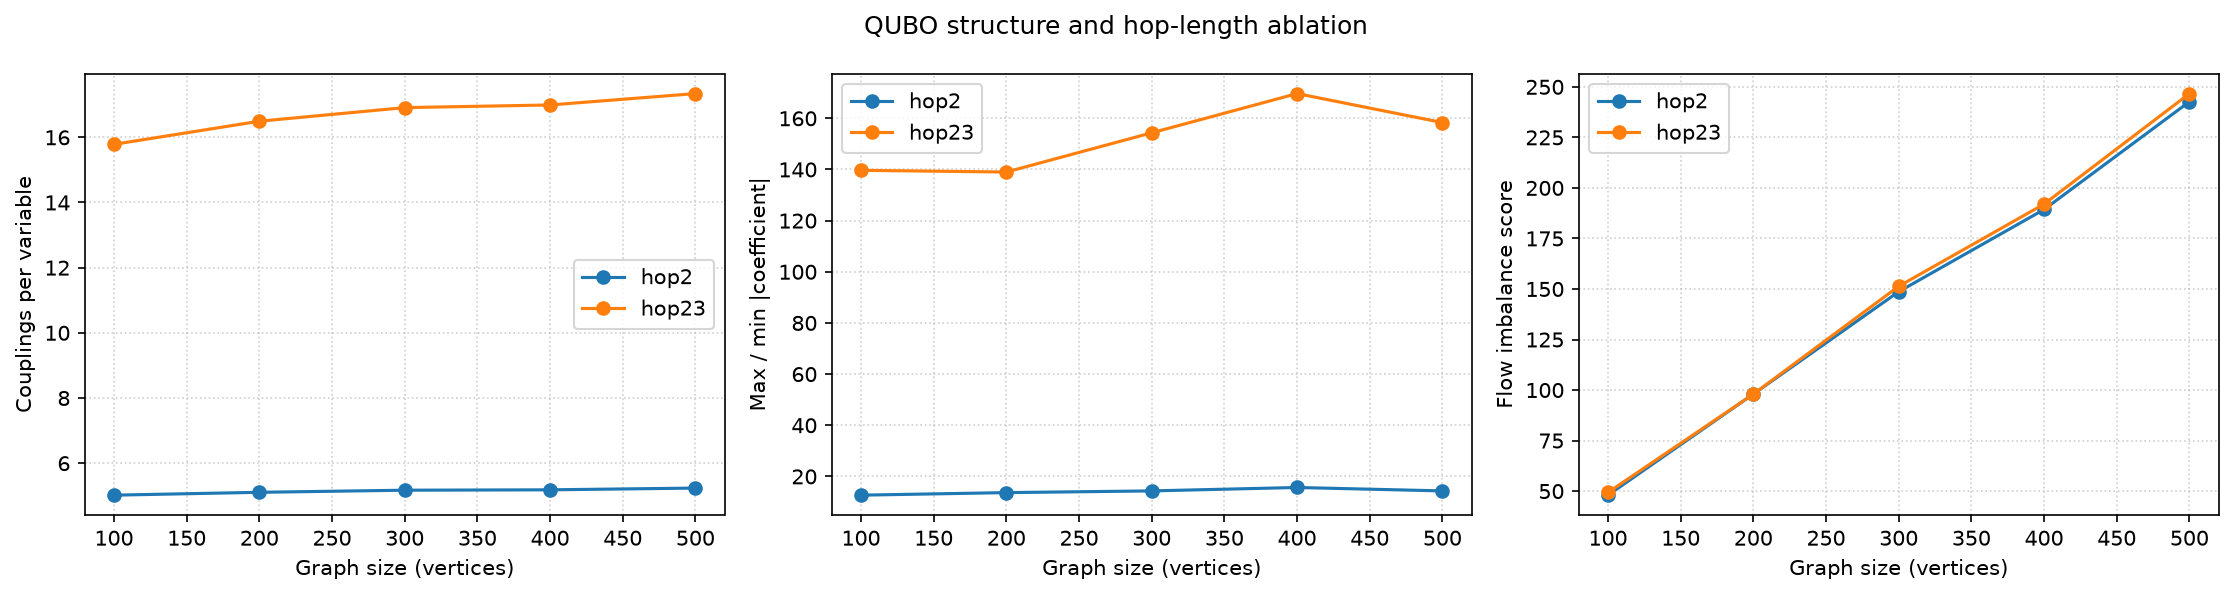
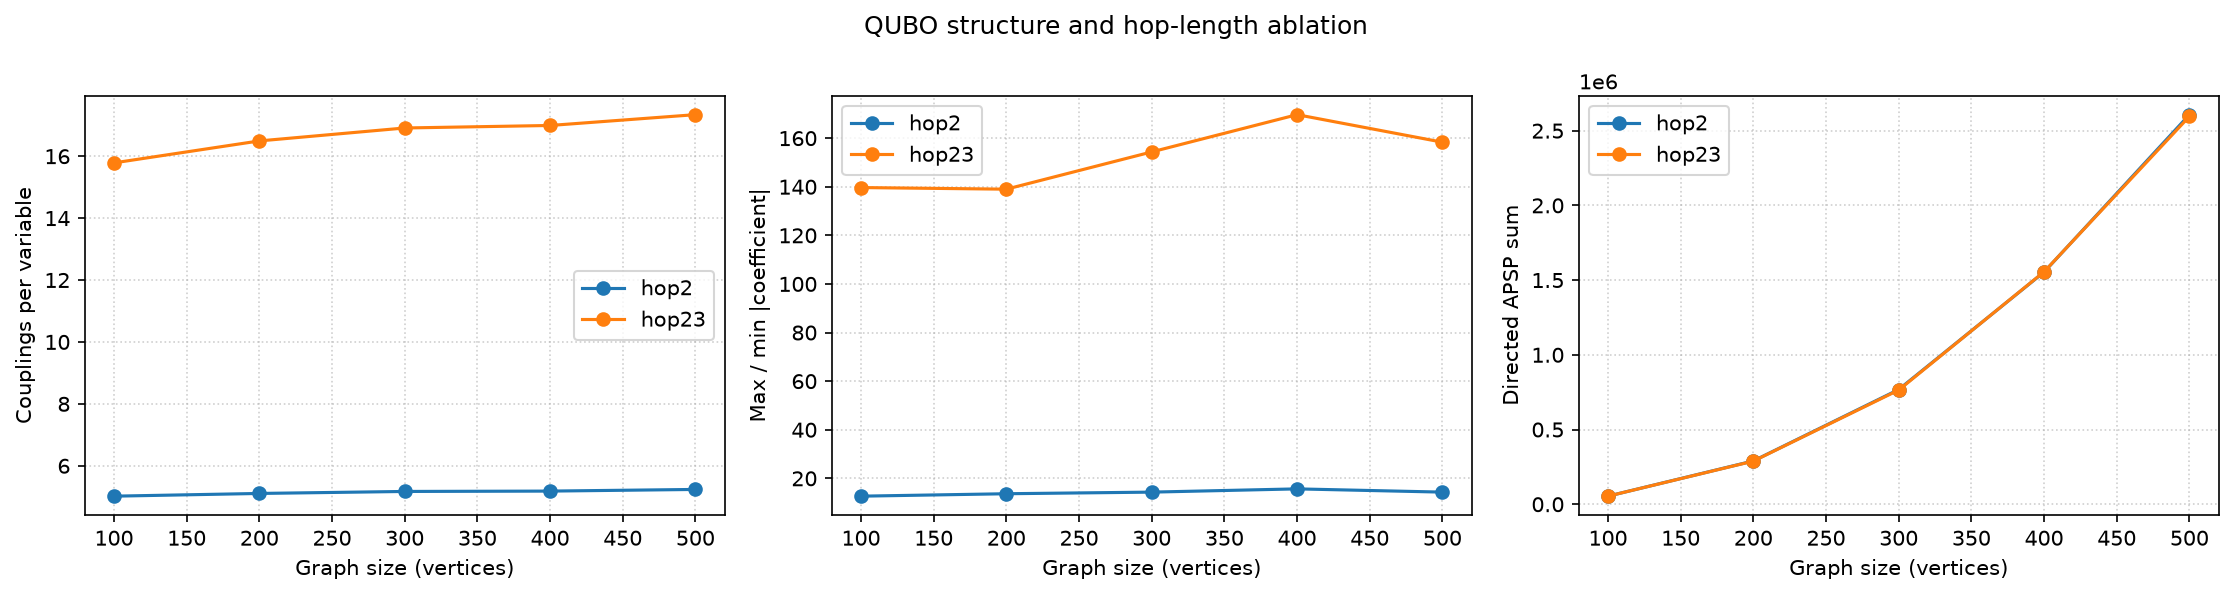
feat: qubo-structure 플롯 셋째 패널을 흐름 불균형에서 유향 거리 합으로
논문이 APSP 중심으로 재편되면서 흐름 지표가 본문에서 빠졌다.
절제 그림의 품질 패널을 apsp_sum 으로 바꿔 '이득 없음'이 거리
축에서 직접 보이도록 한다. JSON 기록은 변경 없음(flow_score 유지).

Refs #36

diff --git a/src/visualizer.py b/src/visualizer.py
@@ -872,7 +872,7 @@ def plot_qubo_structure(
     panels = (
         ("couplings_per_variable", "Couplings per variable"),
         ("coefficient_ratio", "Max / min |coefficient|"),
-        ("flow_score", "Flow imbalance score"),
+        ("apsp_sum", "Directed APSP sum"),
     )
     fig, axes = plt.subplots(1, len(panels), figsize=(5 * len(panels), 4))
 
